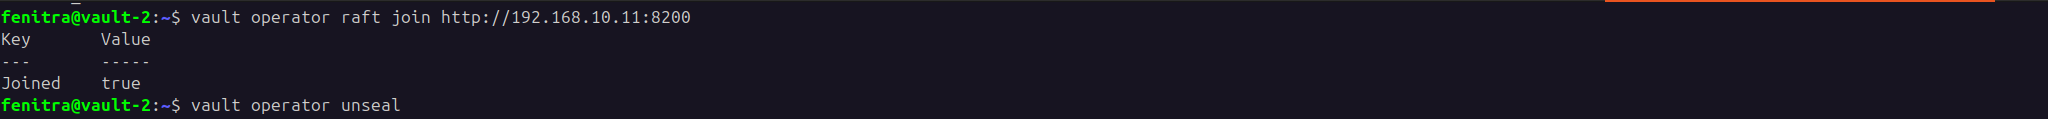
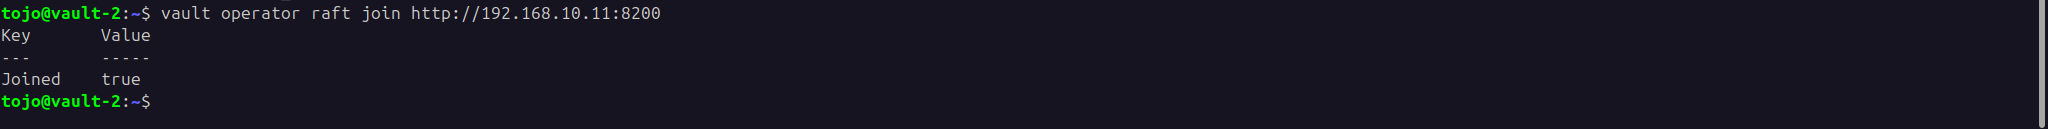
feat: finaly add all the first ansible config for vault cluster configuration

Changed region(s): [[0.0, 0.0252, 0.3438, 0.3782], [0.0, 0.5546, 0.2188, 0.9328], [0.7812, 0.0, 1.0, 0.0252]]

diff --git a/Canary-deployment-and-vault/README.md b/Canary-deployment-and-vault/README.md
@@ -43,7 +43,7 @@ Firstly, we should install and configure vault service for `vault-1` server.
 
 Vault installation using ansible playbooks:
 ```bash
-ansible-playbook -i inventory.yml site.yml --tags vault-installation --limit vault-1
+ansible-playbook -i inventory.yml site.yml --tags vault-installation
 ```
 ![vault-installation](images/vault-installation.png)
 
@@ -80,3 +80,23 @@ Verification:
 vault status
 ```
 ![vault-status](images/vault-status.png)
+
+After vault-1 configurations, it's time to configure vault-2.
+NB: HAproxy server is already created after `vagrant up`
+
+There's no more additionnal configuration but only let vault-2 to join the cluster with this following command:
+`bash
+vault operator raft join http:/192.168.10.11:8200
+`
+![vault-join](images/raft-join.png)
+
+And we have vault-2 with state `follower`. View inside vault-1 server.
+
+`bash
+vault operator raft list-peers
+`
+![vault-list](images/raft-list.png)
+
+HAproxy tell us the truth inside his UI:
+![haproxy](images/HAproxy-UI.png)
+